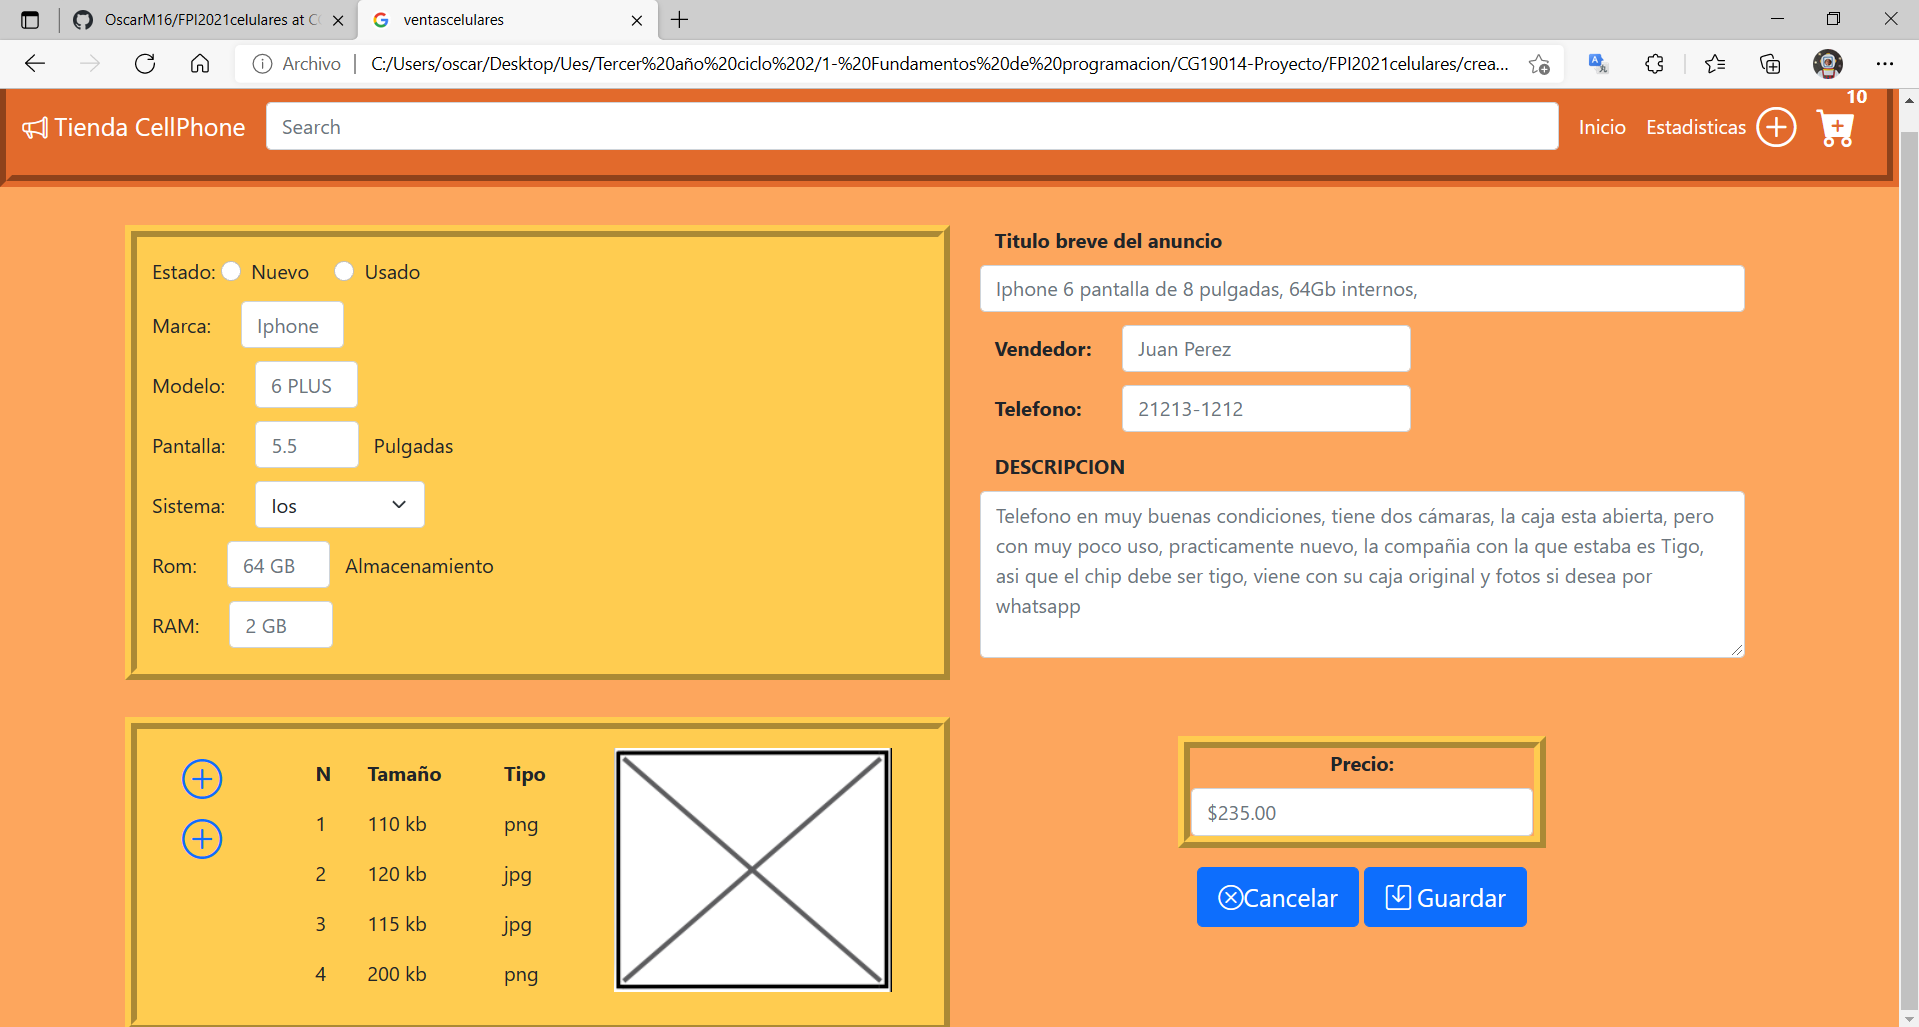
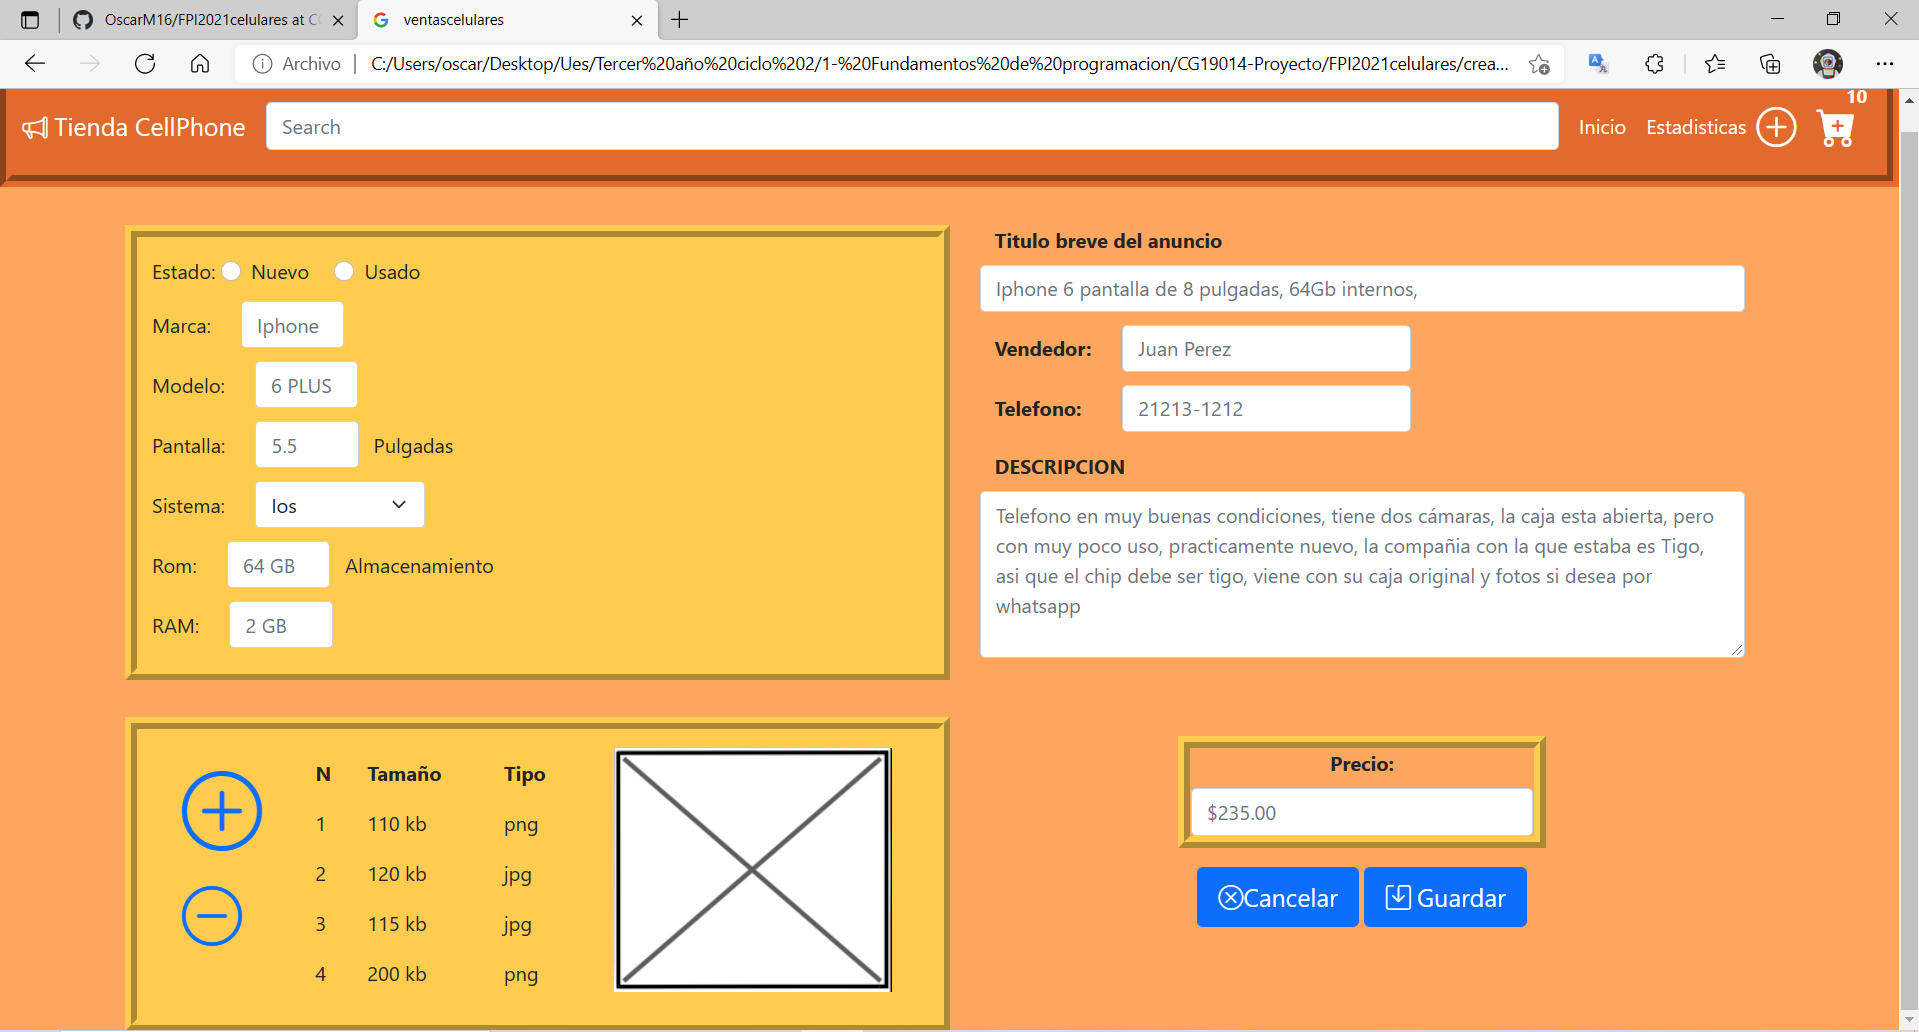
Ultima Actualizacion
Correcion de un boton en la pagina de creacion de anuncio

diff --git a/crearanuncio.html b/crearanuncio.html
@@ -254,10 +254,10 @@ DUE: CG19014
                 <div class="row">
                   <div class="col-lg-2">
                     <a class="navbar-brand " href="crearanuncio.html">
-                        <i class="bi bi-plus-circle" style="font-size: 2rem"></i>
+                        <i class="bi bi-plus-circle" style="font-size: 4rem"></i>
                     </a>
                     <a class="navbar-brand " href="crearanuncio.html">
-                        <i class="bi bi-plus-circle" style="font-size: 2rem"></i>
+                        <i class="bi bi-dash-circle"  style="font-size: 3rem"></i>
                     </a>
                   </div>
                   <div class="col">
